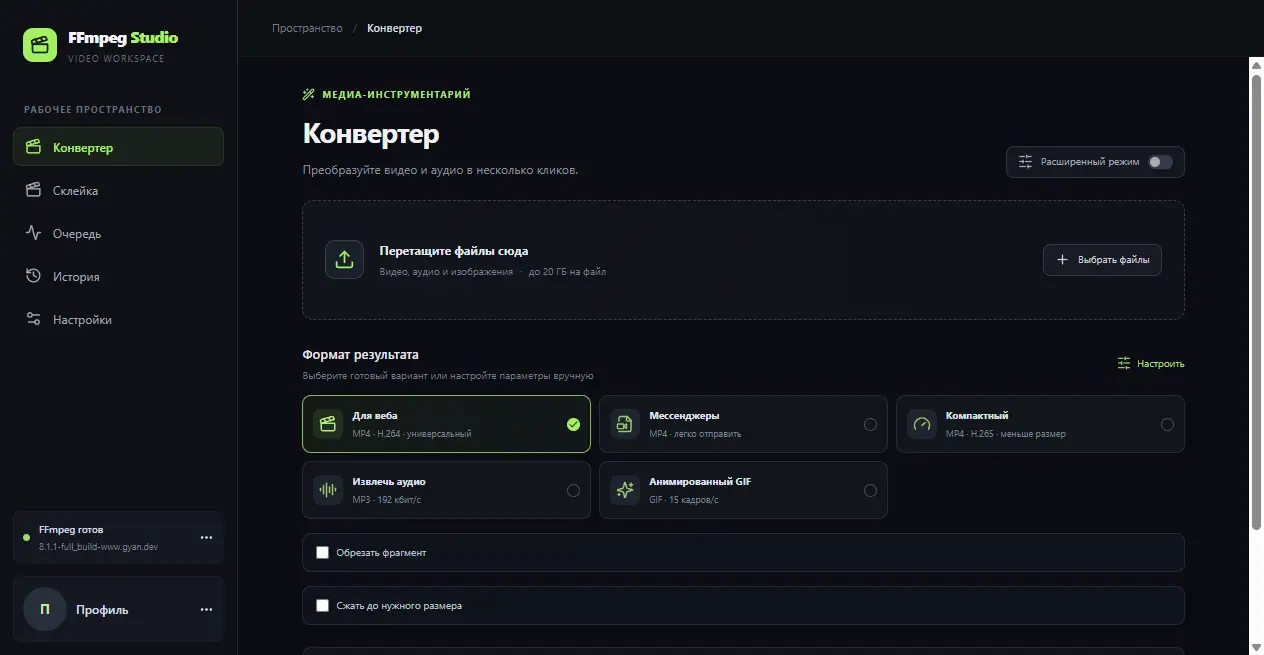
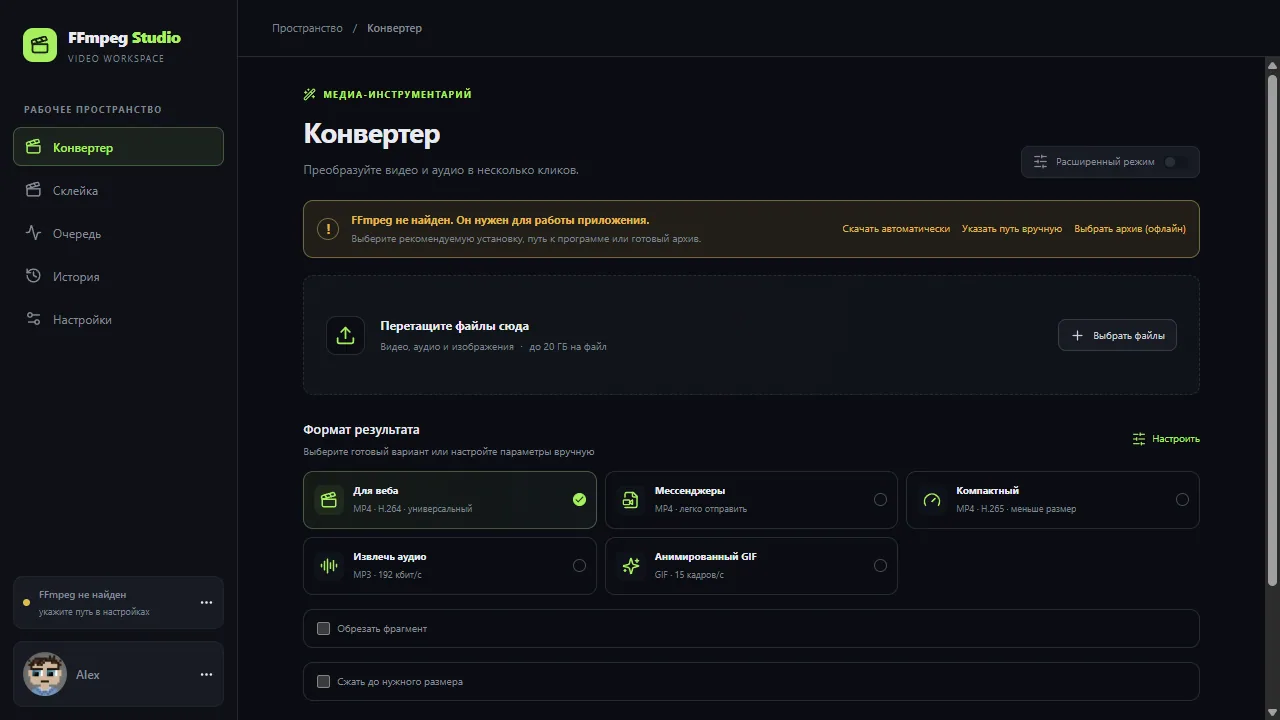
test: cover appearance matrix and visual states

diff --git a/tests/e2e/appearance-matrix.spec.ts b/tests/e2e/appearance-matrix.spec.ts
@@ -1,0 +1,78 @@
+import { _electron as electron, expect, test } from '@playwright/test'
+import { mkdtempSync, rmSync } from 'node:fs'
+import os from 'node:os'
+import path from 'node:path'
+
+const palettes = ['graphite', 'ocean', 'forest', 'sunset', 'sakura', 'contrast', 'custom']
+const themes = ['dark', 'light', 'system']
+const densities = ['compact', 'normal', 'spacious']
+const backgrounds = ['solid', 'gradient', 'glass', 'image']
+const scales = [80, 100, 125, 150]
+const viewports = [{ width: 960, height: 600 }, { width: 1280, height: 720 }, { width: 1920, height: 1080 }]
+const screenLabels = ['Converter', 'Merge', 'Queue', 'History', 'Settings']
+
+test('appearance matrix covers theme and palette pairs at layout boundaries', async () => {
+  const folder = mkdtempSync(path.join(os.tmpdir(), 'ffmpeg-studio-matrix-'))
+  const app = await electron.launch({ args: ['.', `--user-data-dir=${folder}`], cwd: process.cwd() })
+  try {
+    const page = await app.firstWindow()
+    const selects = page.locator('.appearance-settings select')
+    const collapsed = page.locator('.appearance-settings input[type="checkbox"]').first()
+    const scale = page.locator('.appearance-settings input[type="range"]').last()
+    let currentLanguage = 'ru'
+
+    for (let index = 0; index < themes.length * palettes.length; index++) {
+      const theme = themes[Math.floor(index / palettes.length)]!
+      const palette = palettes[index % palettes.length]!
+      const language = index % 2 === 0 ? 'ru' : 'en'
+      const position = Math.floor(index / 2) % 2 === 0 ? 'left' : 'right'
+      const density = densities[index % densities.length]!
+      const background = backgrounds[index % backgrounds.length]!
+      const value = scales[index % scales.length]!
+      const viewport = viewports[index % viewports.length]!
+      const screen = screenLabels[index % screenLabels.length]!
+
+      await page.getByRole('button', { name: currentLanguage === 'en' ? 'Settings' : 'Настройки', exact: true }).click()
+      await page.setViewportSize(viewport)
+      await page.emulateMedia({ colorScheme: index % 2 === 0 ? 'dark' : 'light' })
+      await selects.nth(0).selectOption(theme)
+      await selects.nth(1).selectOption(palette)
+      if (palette === 'custom') await page.getByLabel('HEX').fill(index % 2 === 0 ? '#ffffff' : '#000000')
+      await selects.nth(3).selectOption(background)
+      await selects.nth(4).selectOption(density)
+      await scale.evaluate((input, next) => {
+        const setter = Object.getOwnPropertyDescriptor(HTMLInputElement.prototype, 'value')!.set!
+        setter.call(input, String(next))
+        input.dispatchEvent(new Event('input', { bubbles: true }))
+        input.dispatchEvent(new Event('change', { bubbles: true }))
+      }, value)
+      await selects.nth(7).selectOption(position)
+      await collapsed.setChecked(index % 2 === 1)
+      await selects.nth(2).selectOption(language)
+      currentLanguage = language
+
+      const sectionName = language === 'en' ? screen : ({ Converter: 'Конвертер', Merge: 'Склейка', Queue: 'Очередь', History: 'История', Settings: 'Настройки' } as const)[screen]
+      await page.getByRole('button', { name: sectionName, exact: true }).click()
+      const geometry = await page.evaluate(() => {
+        const content = document.querySelector('.content-scroll')!
+        const shell = document.querySelector('.app-shell')!.getBoundingClientRect()
+        const visibleContent = content.getBoundingClientRect()
+        return {
+          viewport: window.innerWidth,
+          shellRight: shell.right,
+          contentLeft: visibleContent.left,
+          contentRight: visibleContent.right,
+          content: content.scrollWidth,
+          contentClient: content.clientWidth,
+        }
+      })
+      expect(geometry.shellRight, `${theme}/${palette}/${position}/${density}/${value}%/${viewport.width}/${language}/${background}/${screen}`).toBeLessThanOrEqual(geometry.viewport)
+      expect(geometry.contentRight, `${theme}/${palette}/${position}/${density}/${value}%/${viewport.width}/${language}/${background}/${screen}`).toBeLessThanOrEqual(geometry.viewport)
+      expect(geometry.contentLeft, `${theme}/${palette}/${position}/${density}/${value}%/${viewport.width}/${language}/${background}/${screen}`).toBeGreaterThanOrEqual(0)
+      expect(geometry.content, `${theme}/${palette}/${position}/${density}/${value}%/${viewport.width}/${language}/${background}/${screen}`).toBeLessThanOrEqual(geometry.contentClient)
+    }
+  } finally {
+    await app.close()
+    rmSync(folder, { recursive: true, force: true })
+  }
+})

diff --git a/tests/e2e/appearance.spec.ts b/tests/e2e/appearance.spec.ts
@@ -1,0 +1,47 @@
+import { _electron as electron, expect, test } from '@playwright/test'
+import { mkdtempSync, rmSync } from 'node:fs'
+import os from 'node:os'
+import path from 'node:path'
+import { captureScreenshot } from './captureScreenshot'
+
+test('light theme uses light native controls and follows the system color scheme', async () => {
+  const folder = mkdtempSync(path.join(os.tmpdir(), 'ffmpeg-studio-appearance-'))
+  const app = await electron.launch({ args: ['.', `--user-data-dir=${folder}`], cwd: process.cwd() })
+  try {
+    const page = await app.firstWindow()
+    await page.setViewportSize({ width: 1280, height: 720 })
+    await expect(page.getByRole('heading', { name: 'Конвертер' })).toBeVisible()
+    await page.getByRole('button', { name: 'Настройки' }).click()
+    const theme = page.getByLabel('Режим темы')
+    await theme.selectOption('light')
+    const lightState = await page.evaluate(() => ({
+      colorScheme: document.documentElement.style.colorScheme,
+      page: getComputedStyle(document.body).backgroundColor,
+      card: getComputedStyle(document.querySelector('.appearance-settings')!).backgroundColor,
+      control: getComputedStyle(document.querySelector('.appearance-settings select')!).backgroundColor,
+    }))
+    expect(lightState).toEqual({
+      colorScheme: 'light',
+      page: 'rgb(241, 243, 246)',
+      card: 'rgb(255, 255, 255)',
+      control: 'rgb(255, 255, 255)',
+    })
+    await expect.poll(() => page.locator('.user-card').evaluate(element => getComputedStyle(element).backgroundColor)).toBe('rgb(248, 250, 252)')
+    expect(await page.locator('.profile-avatar').evaluate(element => getComputedStyle(element).backgroundColor)).toBe('rgb(255, 255, 255)')
+    await page.evaluate(() => document.fonts.ready)
+    await captureScreenshot(page, 'appearance-light-1280x720.webp')
+
+    await page.getByLabel('Готовая палитра').selectOption('sunset')
+    expect(await page.locator(':root').evaluate(element => getComputedStyle(element).getPropertyValue('--accent-text-color'))).toMatch(/^#/)
+    expect(await page.locator(':root').evaluate(element => getComputedStyle(element).getPropertyValue('--surface-2'))).toBe('#f8fafc')
+
+    await theme.selectOption('system')
+    await page.emulateMedia({ colorScheme: 'light' })
+    await expect.poll(() => page.evaluate(() => document.documentElement.style.colorScheme)).toBe('light')
+    await page.emulateMedia({ colorScheme: 'dark' })
+    await expect.poll(() => page.evaluate(() => document.documentElement.style.colorScheme)).toBe('dark')
+  } finally {
+    await app.close()
+    rmSync(folder, { recursive: true, force: true })
+  }
+})

diff --git a/tests/e2e/sidebar.spec.ts b/tests/e2e/sidebar.spec.ts
@@ -2,12 +2,14 @@ import { _electron as electron, expect, test } from '@playwright/test'
 import { mkdtempSync, rmSync } from 'node:fs'
 import os from 'node:os'
 import path from 'node:path'
+import { captureScreenshot } from './captureScreenshot'
 
 test('collapsed profile and its menu stay centered and inside either edge of the window', async () => {
   const folder = mkdtempSync(path.join(os.tmpdir(), 'ffmpeg-studio-sidebar-'))
   const app = await electron.launch({ args: ['.', `--user-data-dir=${folder}`], cwd: process.cwd() })
   try {
     const page = await app.firstWindow()
+    await page.setViewportSize({ width: 1280, height: 720 })
     await expect(page.getByRole('heading', { name: 'Конвертер' })).toBeVisible()
     await page.evaluate(() => window.ffmpegStudio.setProfileName('Alexandra Schwarzenegger Profile'))
     await page.reload()
@@ -20,6 +22,15 @@ test('collapsed profile and its menu stay centered and inside either edge of the
       await page.evaluate(position => {
         document.querySelector('.app-shell')?.setAttribute('data-sidebar-position', position)
       }, side)
+      const navigationButton = page.getByRole('button', { name: 'Конвертер' })
+      await navigationButton.hover()
+      const navigationTooltip = await navigationButton.evaluate(button => ({
+        text: getComputedStyle(button, '::after').content,
+        width: Number.parseFloat(getComputedStyle(button, '::after').width),
+      }))
+      expect(navigationTooltip.text).toContain('Конвертер')
+      expect(navigationTooltip.width).toBeGreaterThan(45)
+      expect(navigationTooltip.width).toBeLessThanOrEqual(220)
       const alignment = await page.locator('.user-card').evaluate(button => {
         const buttonRect = button.getBoundingClientRect()
         const avatarRect = button.querySelector('.profile-avatar')!.getBoundingClientRect()
@@ -51,6 +62,12 @@ test('collapsed profile and its menu stay centered and inside either edge of the
       await expect(menu).toBeHidden()
       await expect(profileButton).toBeFocused()
     }
+    await page.evaluate(() => {
+      document.querySelector('.app-shell')?.setAttribute('data-sidebar-position', 'left')
+      if (document.activeElement instanceof HTMLElement) document.activeElement.blur()
+    })
+    await page.mouse.move(640, 360)
+    await captureScreenshot(page, 'sidebar-collapsed-1280x720.webp')
   } finally {
     await app.close()
     rmSync(folder, { recursive: true, force: true })

diff --git a/tests/e2e/app.spec.ts b/tests/e2e/app.spec.ts
@@ -5,6 +5,7 @@ import os from 'node:os'
 import path from 'node:path'
 import { buildFfmpegArgs } from '../../src/shared/buildFfmpegArgs'
 import { calculateTargetVideoBitrateKbps } from '../../src/shared/targetSize'
+import { captureScreenshot } from './captureScreenshot'
 
 test('starts, probes a generated clip and converts it through the Electron bridge', async () => {
   const folder = mkdtempSync(path.join(os.tmpdir(), 'ffmpeg studio проверка-'))
@@ -17,13 +18,17 @@ test('starts, probes a generated clip and converts it through the Electron bridg
   const generatedSecond = spawnSync('ffmpeg', ['-y', '-f', 'lavfi', '-i', 'testsrc2=duration=2:size=320x240:rate=25', '-pix_fmt', 'yuv420p', secondInput], { encoding: 'utf8' })
   expect(generatedSecond.status, generatedSecond.stderr).toBe(0)
 
-  const app = await electron.launch({ args: ['.'], cwd: process.cwd() })
+  const app = await electron.launch({ args: ['.', `--user-data-dir=${folder}`], cwd: process.cwd() })
   try {
     const page = await app.firstWindow()
+    await page.setViewportSize({ width: 1280, height: 720 })
+    await page.evaluate(() => window.ffmpegStudio.setProfileName('Alex'))
+    await page.reload()
     page.on('console', message => process.stdout.write(`[renderer] ${message.type()}: ${message.text()}\n`))
     page.on('pageerror', error => process.stdout.write(`[renderer-error] ${error.message}\n`))
     await expect(page.getByRole('heading', { name: 'Конвертер' })).toBeVisible()
-    await page.screenshot({ path: path.join(process.cwd(), 'docs', 'screenshot.png') })
+    await page.evaluate(() => document.fonts.ready)
+    await captureScreenshot(page, 'converter-1280x720.webp')
     const probe = await page.evaluate(file => window.ffmpegStudio.probe(file), input)
     expect(probe.streams.some(stream => stream.codec_type === 'video')).toBe(true)
     const thumbnail = await page.evaluate(file => window.ffmpegStudio.thumbnail(file), input)

diff --git a/tests/e2e/localization.spec.ts b/tests/e2e/localization.spec.ts
@@ -1,0 +1,29 @@
+import { _electron as electron, expect, test } from '@playwright/test'
+import { mkdtempSync, rmSync } from 'node:fs'
+import os from 'node:os'
+import path from 'node:path'
+
+test('English localization covers every navigation screen and saved preference', async () => {
+  const folder = mkdtempSync(path.join(os.tmpdir(), 'ffmpeg-studio-language-'))
+  const app = await electron.launch({ args: ['.', `--user-data-dir=${folder}`], cwd: process.cwd() })
+  try {
+    const page = await app.firstWindow()
+    await page.getByRole('button', { name: 'Настройки' }).click()
+    await page.getByLabel('Язык').selectOption('en')
+    await expect(page.locator('html')).toHaveAttribute('lang', 'en')
+
+    for (const section of ['Converter', 'Merge', 'Queue', 'History', 'Settings']) {
+      await page.getByRole('button', { name: section }).click()
+      await expect.poll(() => page.locator('.content-scroll').innerText()).not.toMatch(/[А-Яа-яЁё]/)
+    }
+
+    const settings = await page.evaluate(async () => window.ffmpegStudio.getSettings())
+    expect(settings.appearance?.language).toBe('en')
+    await page.getByLabel('Language').selectOption('ru')
+    await expect(page.getByRole('button', { name: 'Конвертер' })).toBeVisible()
+    await expect(page.locator('html')).toHaveAttribute('lang', 'ru')
+  } finally {
+    await app.close()
+    rmSync(folder, { recursive: true, force: true })
+  }
+})

diff --git a/tests/e2e/captureScreenshot.ts b/tests/e2e/captureScreenshot.ts
@@ -1,0 +1,13 @@
+import { mkdirSync } from 'node:fs'
+import path from 'node:path'
+import sharp from 'sharp'
+import type { Page } from '@playwright/test'
+
+export async function captureScreenshot(page: Page, filename: string) {
+  const output = path.join(process.cwd(), 'docs', 'screenshots', filename)
+  mkdirSync(path.dirname(output), { recursive: true })
+  const png = await page.screenshot({ animations: 'disabled' })
+  await sharp(png).resize({ width: 1280, height: 720, fit: 'inside', withoutEnlargement: true }).webp({ quality: 82, effort: 5 }).toFile(output)
+  const { size } = await sharp(output).metadata()
+  if (size && size > 300_000) throw new Error(`${filename} exceeds the 300 KB screenshot limit.`)
+}
